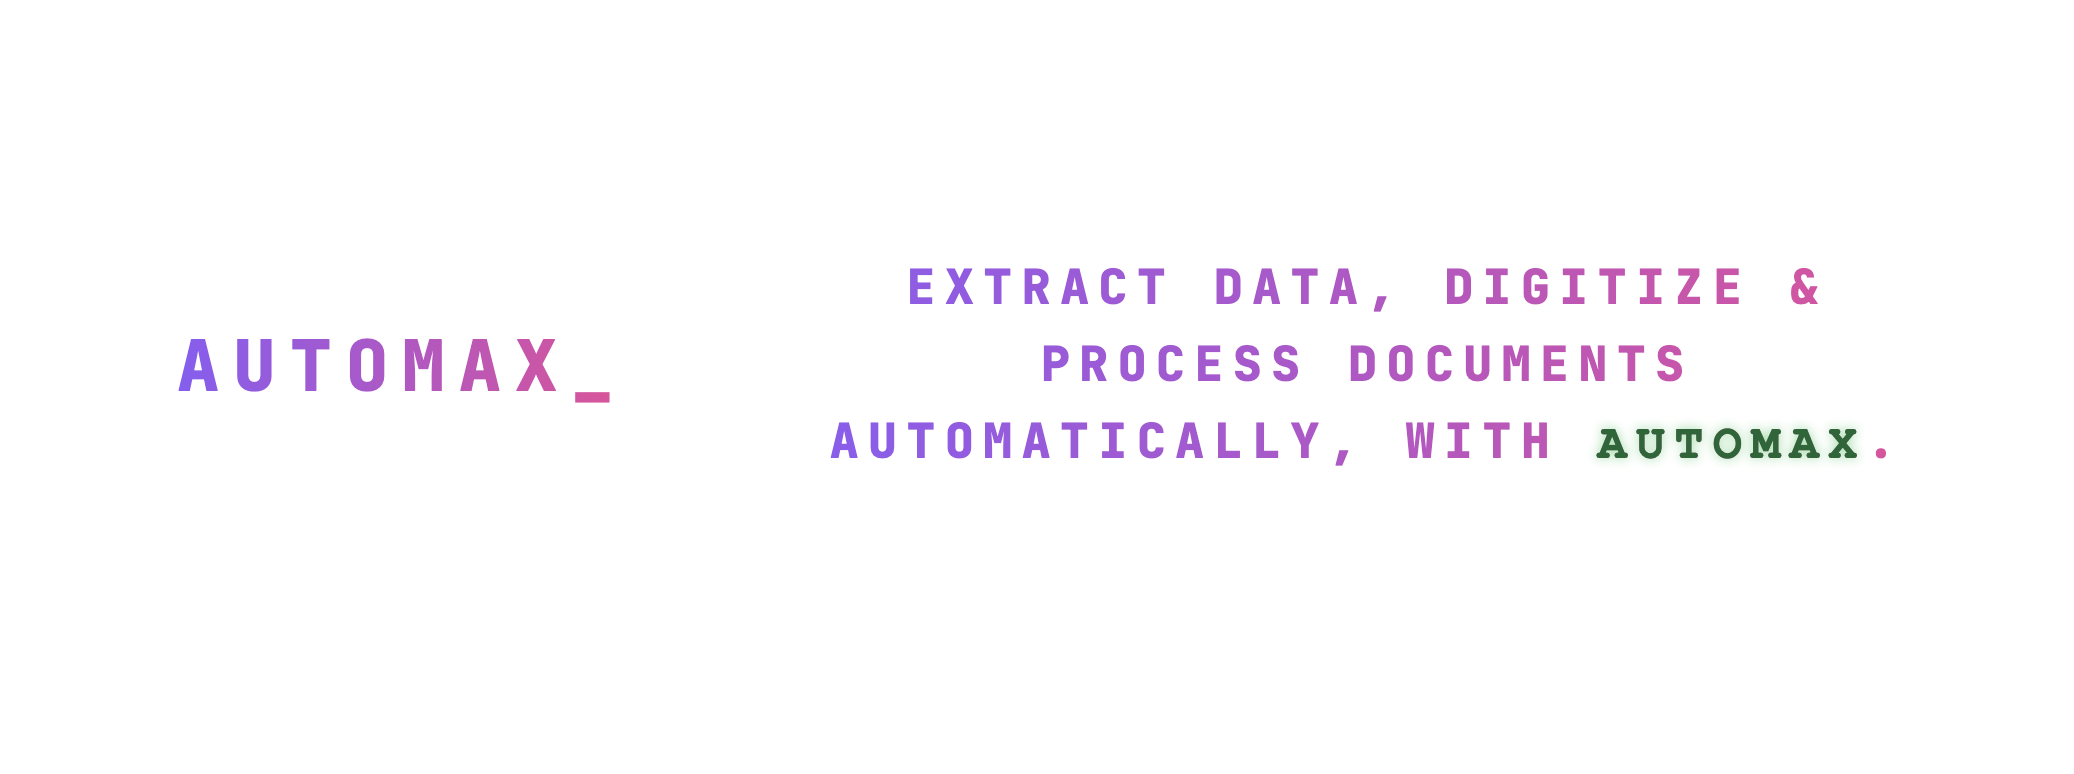
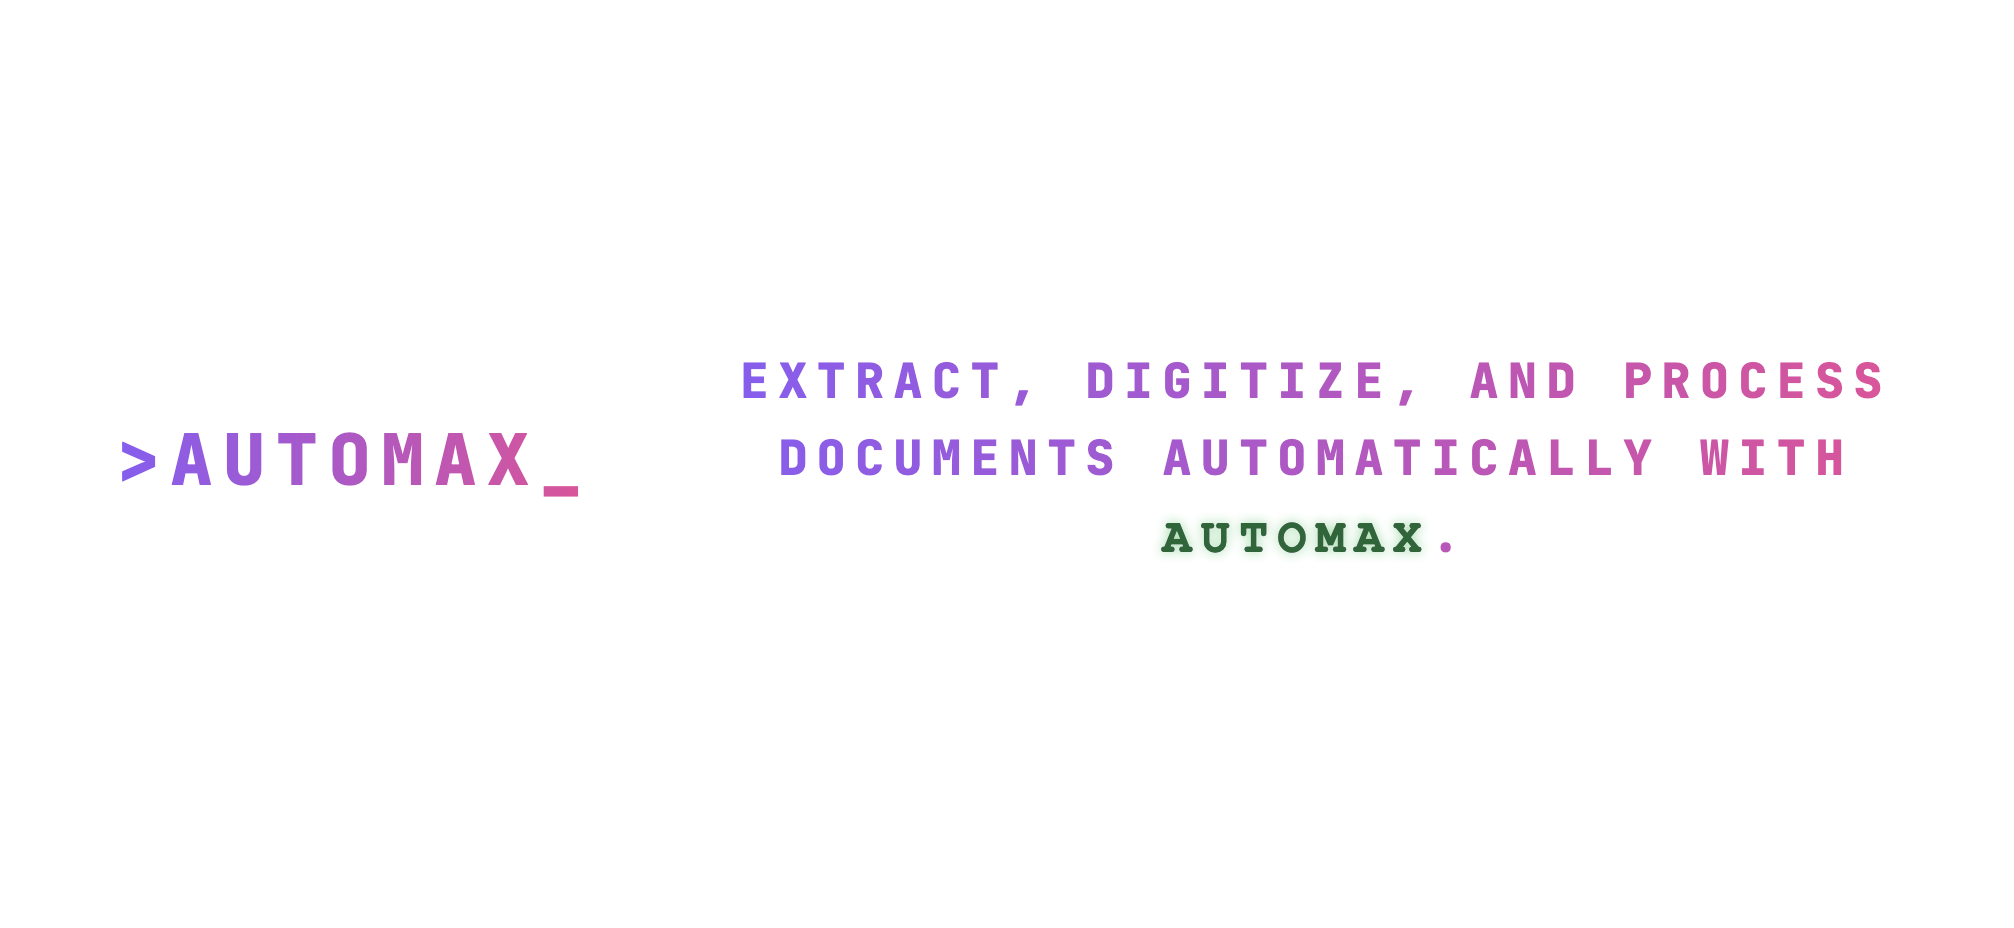
rd

Changed region(s): [[0.3694, 0.3411, 0.9543, 0.6202], [0.0616, 0.4341, 0.3078, 0.5271]]

diff --git a/index.html b/index.html
@@ -1893,7 +1893,7 @@
                 <br><br>
             <div style="display: flex; align-items: center; justify-content: center; gap: 2rem;">
                 <div style="flex: 1; display: flex; align-items: center; justify-content: center;">
-                    <h1 class="glitch-text" style="font-size: 2.2rem; margin: 0; text-align: center; word-spacing: 1.5em; letter-spacing: 0.15em;">AI</h1>
+                    <h1 class="glitch-text" style="font-size: 2.2rem; margin: 0; text-align: center; word-spacing: 1.5em; letter-spacing: 0.15em;">>AutoMax_</h1>
                 </div>
                 <div style="flex: 2; display: flex; align-items: center; justify-content: center;">
                     <p class="glitch-text" style="font-size: 1.5rem; margin: 0; text-align: center;">
